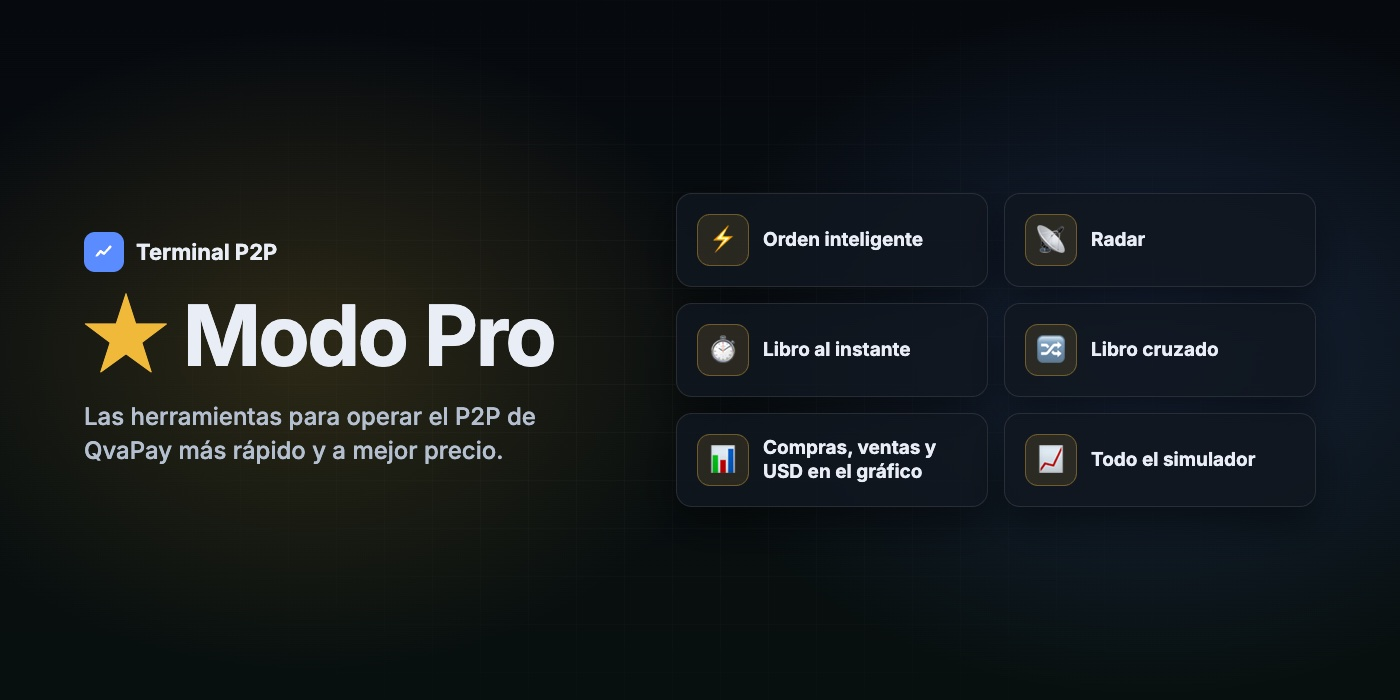
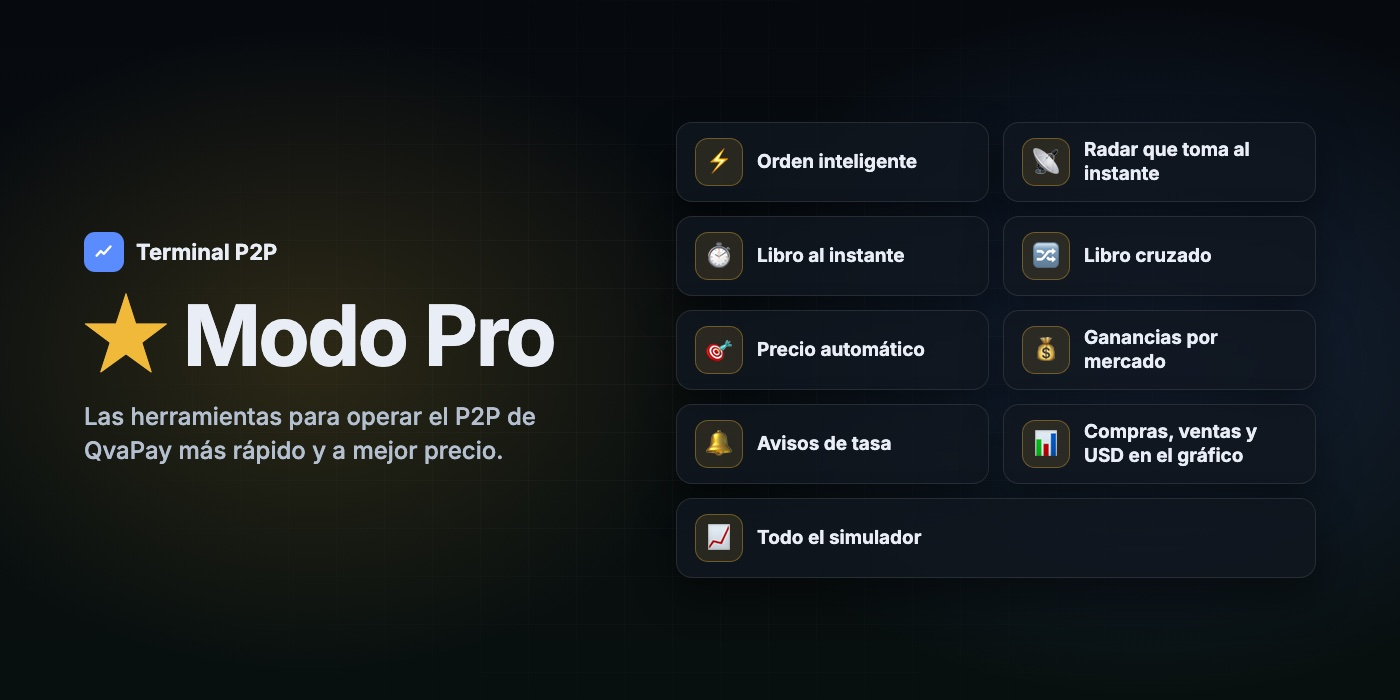
Lo que ofrece el modo Pro, al día: la ventana ★ del terminal y los planes de la portada suman Precio automático, Ganancias por mercado y Avisos de tasa por Telegram, y el radar «toma al instante». La entrada del blog del modo Pro tiene secciones nuevas para esas tres herramientas, el radar explica l

diff --git a/public/site/blog/modo-pro/index.html b/public/site/blog/modo-pro/index.html
@@ -4,9 +4,9 @@
 	<meta charset="utf-8" />
 	<meta name="viewport" content="width=device-width, initial-scale=1, viewport-fit=cover" />
 	<title>El modo Pro de Terminal P2P: todo lo que obtienes · Terminal P2P</title>
-	<meta name="description" content="Orden inteligente, radar, libro al instante, libro cruzado, compras y ventas en el gráfico y todo el simulador. Qué incluye el modo Pro, cuánto cuesta y cómo funciona." />
+	<meta name="description" content="Orden inteligente, radar, precio automático, libro al instante, libro cruzado, ganancias, avisos de tasa y todo el simulador. Qué incluye el modo Pro, cuánto cuesta y cómo funciona." />
 	<meta property="og:title" content="El modo Pro de Terminal P2P: todo lo que obtienes · Terminal P2P" />
-	<meta property="og:description" content="Orden inteligente, radar, libro al instante, libro cruzado, compras y ventas en el gráfico y todo el simulador. Qué incluye el modo Pro, cuánto cuesta y cómo funciona." />
+	<meta property="og:description" content="Orden inteligente, radar, precio automático, libro al instante, libro cruzado, ganancias, avisos de tasa y todo el simulador. Qué incluye el modo Pro, cuánto cuesta y cómo funciona." />
 	<meta property="og:url" content="https://terminalp2p.com/blog/modo-pro/" />
 	<meta property="og:type" content="article" />
 	<meta property="og:image" content="https://terminalp2p.com/img/modo-pro.jpg" />
@@ -74,7 +74,7 @@
 					<p class="dek">Pro no es un plan ni una suscripción: es un modo. Activas días y el terminal gana herramientas para operar más rápido y a mejor precio. Cuando se acaban, sigues con todo lo gratis. Nada se cobra solo.</p>
 				</div>
 				<figure class="article-hero">
-					<img src="/img/modo-pro.jpg" width="1400" height="700" alt="Modo Pro de Terminal P2P: orden inteligente, radar, libro al instante, libro cruzado, compras y ventas en el gráfico y todo el simulador" />
+					<img src="/img/modo-pro.jpg" width="1400" height="700" alt="Modo Pro de Terminal P2P: orden inteligente, radar que toma al instante, libro al instante, libro cruzado, precio automático, ganancias por mercado, avisos de tasa, compras y ventas en el gráfico y todo el simulador" />
 				</figure>
 			</header>
 
@@ -100,8 +100,17 @@
 				<ul>
 					<li><strong>Hasta 3 reglas</strong>: en cada una eliges el mercado, si compras o vendes, el monto y el precio, fijo o un porcentaje mejor que la mediana de lo que se completó (así se mueve con el mercado).</li>
 					<li><strong>Avisos</strong> con sonido, notificación del navegador y, si conectas los avisos en «Mi cuenta», por Telegram.</li>
-					<li><strong>Si quieres, la toma sola</strong>, con las mismas comprobaciones que la orden inteligente, con un tope de USD por día y un máximo de operaciones del radar a la vez (de 1 a 3). Mientras tengas esas operaciones sin terminar, solo avisa.</li>
+					<li><strong>Si quieres, la toma sola</strong>, con un tope de USD por día y un máximo de operaciones del radar a la vez (de 1 a 3). Mientras tengas esas operaciones sin terminar, solo avisa.</li>
+					<li><strong>Al instante.</strong> Las mejores ofertas se las llevan en menos de un segundo, así que el radar no pierde tiempo: comprando con el libro recién llegado, pide la oferta en milisegundos, sin volver a leerla antes. Si su dueño cambió el precio justo antes, te lo dice y la puedes cancelar sin disputa mientras no la pagues. Si otro llega antes, prueba con la siguiente que cumple tu regla.</li>
+					<li><strong>Con requisitos también.</strong> Si una oferta pide requisitos y aún no se sabe si los cumples, el radar lo pregunta primero, aunque la pestaña esté oculta, y la toma en cuanto lo sabe.</li>
 					<li>Las ofertas con precio atípico (más de un 8 % mejor que lo cerrado, casi siempre un error o un cebo) no entran.</li>
+				</ul>
+
+				<h2>🎯 Precio automático</h2>
+				<p>Para quien publica a menudo y quiere que le tomen pronto sin regalar margen. Al publicar una oferta, marcas «Precio automático» y pones tus límites: el precio que no vas a pasar y de cuánto en cuánto se mueve. Desde ahí, el terminal la mantiene la primera del libro: si alguien se pone delante, la mejora un paso; si se va, vuelve hacia tu mejor precio. Nunca sale de tus límites.</p>
+				<ul>
+					<li><strong>Contra los cebos.</strong> No cuentan las ofertas solo para VIP, las de cuentas con menos de 10 operaciones ni las pequeñas (menos de 10 USD, lo puedes cambiar). Y una oferta tiene que llevar 30 segundos con su precio antes de empujarte, para que nadie te arrastre poniendo una un momento.</li>
+					<li>Funciona mientras tienes el terminal abierto, en hasta 3 ofertas a la vez.</li>
 				</ul>
 
 				<h2>🔀 Libro cruzado</h2>
@@ -109,6 +118,12 @@
 
 				<h2>📊 Compras, ventas y USD en el gráfico</h2>
 				<p>En el histórico de cada tasa, cada barra de operaciones se parte en compras (verde) y ventas (rojo), para ver hacia dónde se mueve el mercado. En los rangos de 7 y 30 días, una línea sobre las barras enseña los USD operados en cada periodo.</p>
+
+				<h2>💰 Ganancias</h2>
+				<p>En «Mi cuenta» → Estadísticas, cuánto ganaste de verdad comprando y vendiendo en cada mercado. Cada venta se compara con lo que te costaron esos USD, con la comisión de QvaPay incluida, y cada operación con la tasa normal de ese día: así ves cuánto pagaste de más o cobraste de menos. Todo se descarga en CSV. Se calcula en tu navegador con tus operaciones: no sale de ahí.</p>
+
+				<h2>🔔 Avisos de tasa</h2>
+				<p>Hasta 5 avisos por Telegram: te escribimos cuando la Tasa QvaPay de un mercado sube o baja del valor que pongas. Se configuran en «Mi cuenta» → ★ Pro, y cada aviso vuelve a estar listo cuando la tasa regresa del otro lado.</p>
 
 				<h2>📈 Todo el simulador</h2>
 				<p>En <a href="https://sim.terminalp2p.com">Terminal Trading</a>, el simulador, sin Pro operas BTC y ETH. Con Pro, también SOL, XRP, BNB, DOGE, SUI, PEPE y TAO, con los mismos USDT ficticios y tus mismas órdenes.</p>

diff --git a/public/site/blog/index.html b/public/site/blog/index.html
@@ -72,11 +72,11 @@
 		</section>
 		<section class="wrap posts" aria-label="Publicaciones">
 			<a class="post-card" href="/blog/modo-pro/" data-pro>
-				<img src="/img/modo-pro.jpg" width="1400" height="700" alt="Modo Pro de Terminal P2P: orden inteligente, radar, libro al instante, libro cruzado, compras y ventas en el gráfico y todo el simulador" loading="lazy" />
+				<img src="/img/modo-pro.jpg" width="1400" height="700" alt="Modo Pro de Terminal P2P: orden inteligente, radar que toma al instante, libro al instante, libro cruzado, precio automático, ganancias por mercado, avisos de tasa, compras y ventas en el gráfico y todo el simulador" loading="lazy" />
 				<div>
 					<p class="post-meta"><time datetime="2026-10-29">29 de octubre de 2026</time> · 6 min de lectura</p>
 					<h2>El modo Pro de Terminal P2P: todo lo que obtienes</h2>
-					<p>Orden inteligente, radar, libro al instante, libro cruzado, compras y ventas en el gráfico y todo el simulador. Qué incluye, cuánto cuesta y cómo funciona.</p>
+					<p>Orden inteligente, radar, precio automático, libro al instante, libro cruzado, ganancias, avisos de tasa y todo el simulador. Qué incluye, cuánto cuesta y cómo funciona.</p>
 					<span class="link-arrow">Leer →</span>
 				</div>
 			</a>

diff --git a/public/app/pro.js b/public/app/pro.js
@@ -23,8 +23,11 @@ const usdText = (n) => `${n.toLocaleString('en-US', { minimumFractionDigits: 2, 
 const PRO_FEATURES = [
 	['⚡', 'Orden inteligente', 'toma y publica a la vez, como en un exchange'],
 	['⏱', 'Libro al instante', 'cada oferta te llega al momento'],
-	['📡', 'Radar', 'vigila el libro, te avisa y, si quieres, toma'],
+	['📡', 'Radar', 'vigila el libro, te avisa y, si quieres, toma al instante'],
+	['🎯', 'Precio automático', 'tu oferta la primera del libro, dentro de tus límites'],
 	['🔀', 'Libro cruzado', 'si lo puedes aprovechar y cuánto te queda'],
+	['💰', 'Ganancias', 'cuánto ganaste en cada mercado, con la comisión'],
+	['🔔', 'Avisos de tasa', 'por Telegram, cuando la tasa pasa tu precio'],
 	['📊', 'Compras, ventas y USD en el gráfico', 'hacia dónde se mueve el mercado'],
 	['📈', 'Todo el simulador', '7 mercados más en sim.terminalp2p.com'],
 ]

diff --git a/public/site/index.html b/public/site/index.html
@@ -338,8 +338,10 @@
 						<ul>
 							<li>Todo lo gratis</li>
 							<li><b>Orden inteligente:</b> toma y publica a la vez, como en un exchange</li>
-							<li><b>Radar:</b> vigila el libro, avisa y, si quieres, toma</li>
+							<li><b>Radar:</b> vigila el libro, avisa y, si quieres, toma al instante</li>
+							<li><b>Precio automático:</b> tu oferta la primera, dentro de tus límites</li>
 							<li><b>Libro al instante</b> y <b>libro cruzado</b> que puedes aprovechar</li>
+							<li><b>Ganancias</b> por mercado y <b>avisos de tasa</b> por Telegram</li>
 							<li><b>Compras, ventas y USD</b> en el gráfico</li>
 							<li><b>Todo el simulador:</b> 7 mercados más</li>
 						</ul>
